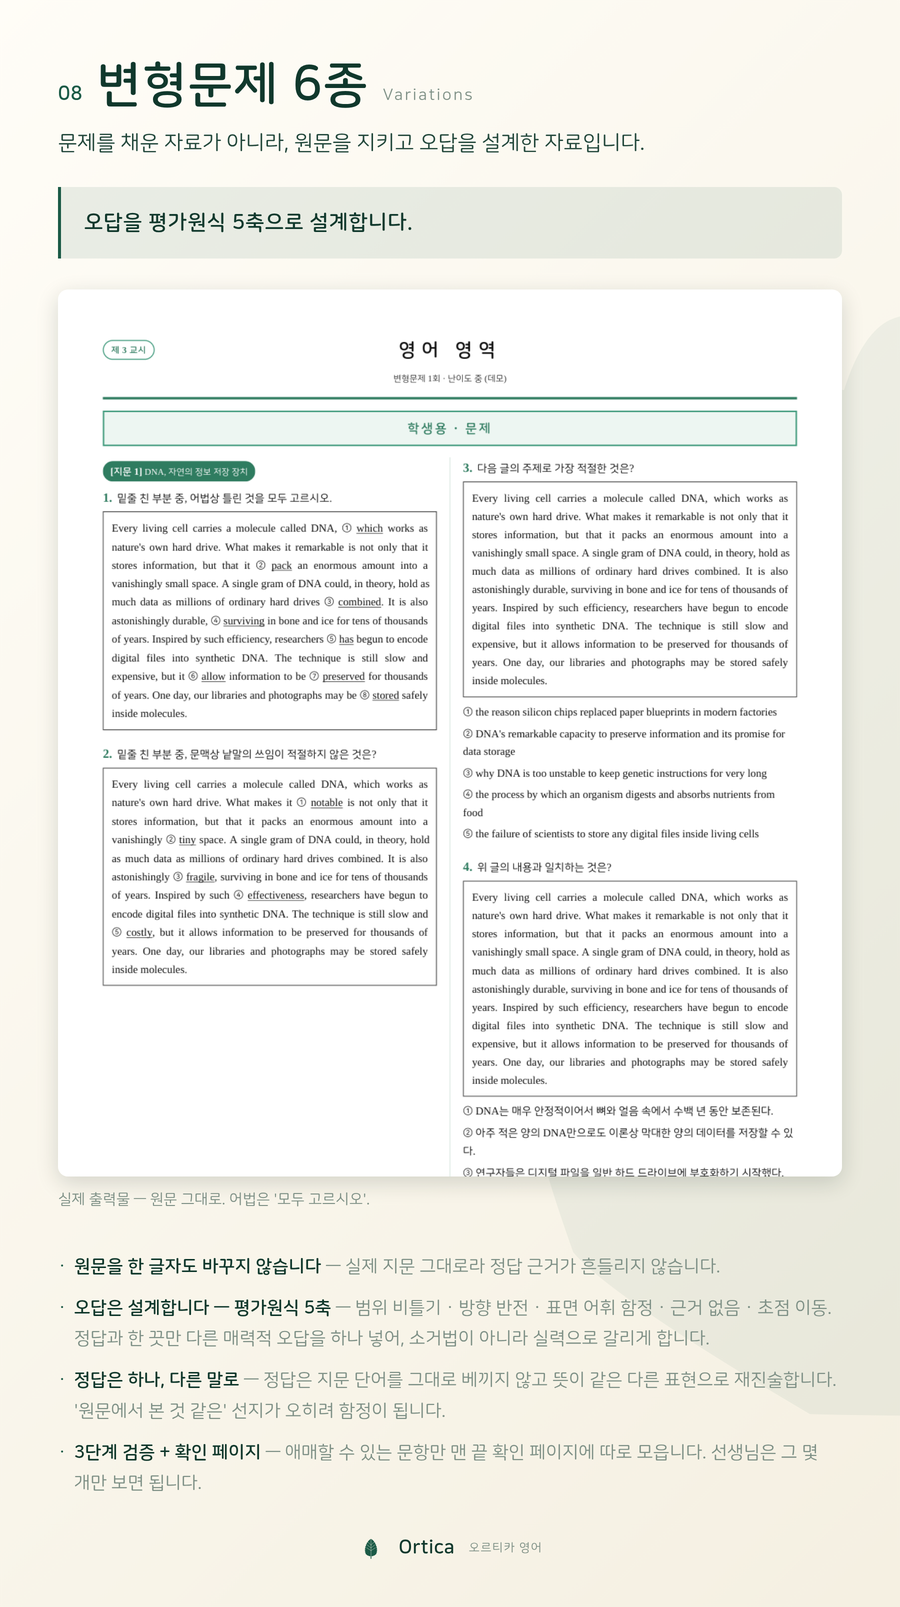
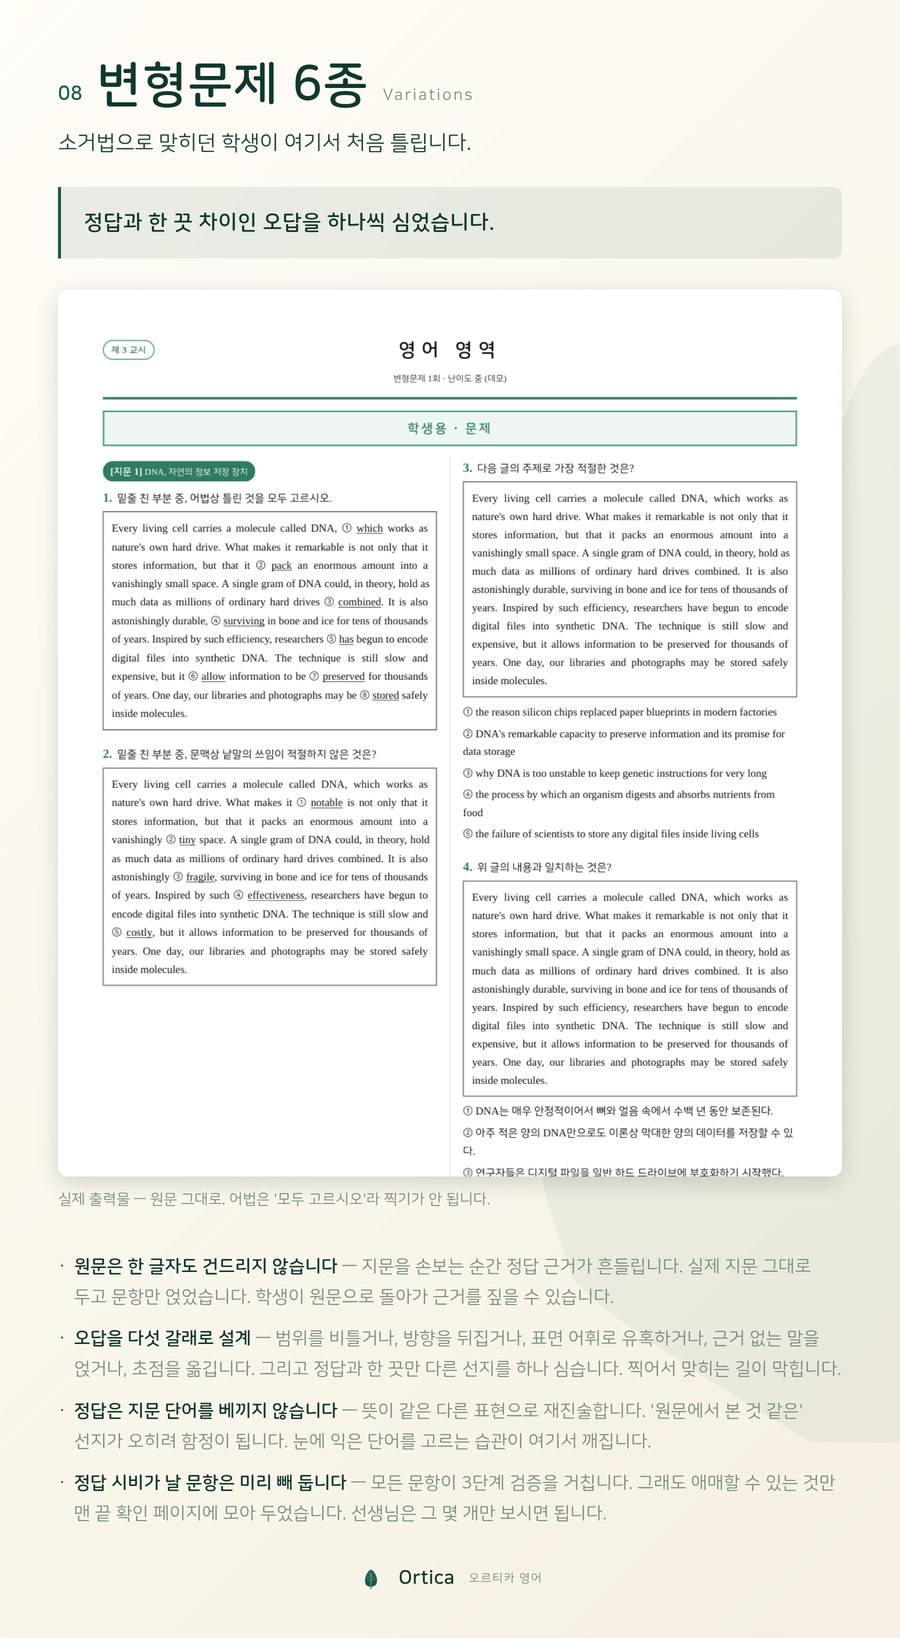
변형문제 문구 다시 씀
고친 이유
- 첫 문장이 읽는 사람의 실수를 지적하며 시작했다("~한 적 있으시죠"). 적은
  선생님이 아니라 오답이 티 나는 자료여야 한다.
- '평가원식 5축'이 앞에 나와 용어부터 읽혔다. 무엇이 좋아지는지가 먼저다.
- 다섯 축을 나열만 했다. 비틀고·뒤집고·유혹하고·얹고·옮긴다로 동사를 붙였다.

바뀐 것
- 한 줄: "소거법으로 맞히던 학생이 여기서 처음 틀립니다." 결과부터 말한다.
- 강조: "정답과 한 끗 차이인 오답을 하나씩 심었습니다."
- 원문 무수정은 '근거가 흔들리지 않는다'에 더해 '학생이 원문으로 돌아가 근거를
  짚을 수 있다'까지 적었다.
- 3단계 검증은 '정답 시비가 날 문항은 미리 빼 둡니다'로 바꿨다. 선생님이 진짜
  겁내는 건 검증 횟수가 아니라 수업 중 정답 시비다.

Claude-Session: https://claude.ai/code/session_015BpsJgtaBR6xs1aCKnE4xw

diff --git a/brand/catalog.py b/brand/catalog.py
@@ -267,34 +267,41 @@ MATERIALS: list[Item] = [
         no="08",
         name="변형문제 6종",
         en="Variations",
-        one_line="문제를 채운 자료가 아니라, 원문을 지키고 오답을 설계한 자료입니다.",
-        edge="오답을 평가원식 5축으로 설계합니다.",
+        one_line="소거법으로 맞히던 학생이 여기서 처음 틀립니다.",
+        edge="정답과 한 끗 차이인 오답을 하나씩 심었습니다.",
         lead=(
-            "급하게 만든 변형문제는 정답이 두 개거나 오답이 티가 나서 학생이 소거법으로 "
-            "다 맞힙니다. 이 자료는 원문을 한 글자도 바꾸지 않고, 오답을 원리로 배치하고, "
-            "모든 문항을 3단계로 검증합니다."
+            "변형문제의 성패는 문항 수가 아니라 오답에서 갈립니다. "
+            "오답이 티가 나면 학생은 지문을 안 읽고도 답을 고릅니다. "
+            "그래서 이 자료는 지문은 그대로 두고, 오답을 설계했습니다."
         ),
         points=[
-            ("원문을 한 글자도 바꾸지 않습니다",
-             "실제 지문 그대로라 정답 근거가 흔들리지 않습니다."),
-            ("오답은 설계합니다 — 평가원식 5축",
-             "범위 비틀기 · 방향 반전 · 표면 어휘 함정 · 근거 없음 · 초점 이동. "
-             "정답과 한 끗만 다른 매력적 오답을 하나 넣어, 소거법이 아니라 실력으로 갈리게 합니다."),
-            ("정답은 하나, 다른 말로",
-             "정답은 지문 단어를 그대로 베끼지 않고 뜻이 같은 다른 표현으로 재진술합니다. "
-             "'원문에서 본 것 같은' 선지가 오히려 함정이 됩니다."),
-            ("3단계 검증 + 확인 페이지",
-             "애매할 수 있는 문항만 맨 끝 확인 페이지에 따로 모읍니다. "
-             "선생님은 그 몇 개만 보면 됩니다."),
-            ("편집 없이 그대로 인쇄",
-             "학생용 · 교사용 · 빠른정답 · 해설까지 완성된 한 부. 오늘 수업에 바로 쓸 수 있습니다."),
+            ("원문은 한 글자도 건드리지 않습니다",
+             "지문을 손보는 순간 정답 근거가 흔들립니다. 실제 지문 그대로 두고 문항만 "
+             "얹었습니다. 학생이 원문으로 돌아가 근거를 짚을 수 있습니다."),
+            ("오답을 다섯 갈래로 설계",
+             "범위를 비틀거나, 방향을 뒤집거나, 표면 어휘로 유혹하거나, 근거 없는 말을 "
+             "얹거나, 초점을 옮깁니다. 그리고 정답과 한 끗만 다른 선지를 하나 심습니다. "
+             "찍어서 맞히는 길이 막힙니다."),
+            ("정답은 지문 단어를 베끼지 않습니다",
+             "뜻이 같은 다른 표현으로 재진술합니다. '원문에서 본 것 같은' 선지가 오히려 "
+             "함정이 됩니다. 눈에 익은 단어를 고르는 습관이 여기서 깨집니다."),
+            ("정답 시비가 날 문항은 미리 빼 둡니다",
+             "모든 문항이 3단계 검증을 거칩니다. 그래도 애매할 수 있는 것만 맨 끝 확인 "
+             "페이지에 모아 두었습니다. 선생님은 그 몇 개만 보시면 됩니다."),
+            ("한 부로 완성, 편집 없이 인쇄",
+             "학생용 · 교사용 · 빠른정답 · 해설까지 들어 있습니다. 오늘 수업에 그대로 "
+             "쓸 수 있습니다."),
         ],
         spec=[("형태", "PDF"), ("구성", "학생용 · 교사용 · 빠른정답 · 해설 + 확인 페이지"),
+              ("검증", "문항 3단계 검증 · 애매 문항 별도 표시"),
               ("배포", "구매 후 즉시 다운로드")],
-        who=["급조한 변형문제에 데어 본 선생님", "소거법으로 맞히던 습관을 깨야 하는 학생"],
+        who=["학생이 소거법으로 다 맞혀 버려 답답했던 선생님",
+             "정답 시비 없는 자료를 그대로 인쇄해 쓰고 싶은 선생님",
+             "눈에 익은 단어를 고르는 습관을 깨야 하는 학생"],
         sample="variation.png",
-        sample_note="실제 출력물 — 원문 그대로. 어법은 '모두 고르시오'.",
-        extra=[("variation-answer.png", "해설 — 선지마다 왜 오답인지를 유형으로 밝힙니다.")],
+        sample_note="실제 출력물 — 원문 그대로. 어법은 '모두 고르시오'라 찍기가 안 됩니다.",
+        extra=[("variation-answer.png",
+                "해설 — 선지마다 왜 오답인지를 갈래로 밝힙니다.")],
     ),
     Item(
         key="mock",

diff --git a/brand/posts/08-variation.md b/brand/posts/08-variation.md
@@ -3,36 +3,36 @@
 ![](detail-variation-1-hero.png)
 <!-- 이미지: brand/assets/detail-variation-1-hero.png -->
 
-급하게 만든 변형문제는 정답이 두 개거나 오답이 티가 나서 학생이 소거법으로 다 맞힙니다. 이 자료는 원문을 한 글자도 바꾸지 않고, 오답을 원리로 배치하고, 모든 문항을 3단계로 검증합니다.
+변형문제의 성패는 문항 수가 아니라 오답에서 갈립니다. 오답이 티가 나면 학생은 지문을 안 읽고도 답을 고릅니다. 그래서 이 자료는 지문은 그대로 두고, 오답을 설계했습니다.
 
 ## 무엇이 들어 있나
 
-**원문을 한 글자도 바꾸지 않습니다**
+**원문은 한 글자도 건드리지 않습니다**
 
-실제 지문 그대로라 정답 근거가 흔들리지 않습니다.
+지문을 손보는 순간 정답 근거가 흔들립니다. 실제 지문 그대로 두고 문항만 얹었습니다. 학생이 원문으로 돌아가 근거를 짚을 수 있습니다.
 
-**오답은 설계합니다 — 평가원식 5축**
+**오답을 다섯 갈래로 설계**
 
-범위 비틀기 · 방향 반전 · 표면 어휘 함정 · 근거 없음 · 초점 이동. 정답과 한 끗만 다른 매력적 오답을 하나 넣어, 소거법이 아니라 실력으로 갈리게 합니다.
+범위를 비틀거나, 방향을 뒤집거나, 표면 어휘로 유혹하거나, 근거 없는 말을 얹거나, 초점을 옮깁니다. 그리고 정답과 한 끗만 다른 선지를 하나 심습니다. 찍어서 맞히는 길이 막힙니다.
 
-**정답은 하나, 다른 말로**
+**정답은 지문 단어를 베끼지 않습니다**
 
-정답은 지문 단어를 그대로 베끼지 않고 뜻이 같은 다른 표현으로 재진술합니다. '원문에서 본 것 같은' 선지가 오히려 함정이 됩니다.
+뜻이 같은 다른 표현으로 재진술합니다. '원문에서 본 것 같은' 선지가 오히려 함정이 됩니다. 눈에 익은 단어를 고르는 습관이 여기서 깨집니다.
 
-**3단계 검증 + 확인 페이지**
+**정답 시비가 날 문항은 미리 빼 둡니다**
 
-애매할 수 있는 문항만 맨 끝 확인 페이지에 따로 모읍니다. 선생님은 그 몇 개만 보면 됩니다.
+모든 문항이 3단계 검증을 거칩니다. 그래도 애매할 수 있는 것만 맨 끝 확인 페이지에 모아 두었습니다. 선생님은 그 몇 개만 보시면 됩니다.
 
-**편집 없이 그대로 인쇄**
+**한 부로 완성, 편집 없이 인쇄**
 
-학생용 · 교사용 · 빠른정답 · 해설까지 완성된 한 부. 오늘 수업에 바로 쓸 수 있습니다.
+학생용 · 교사용 · 빠른정답 · 해설까지 들어 있습니다. 오늘 수업에 그대로 쓸 수 있습니다.
 
 ## 실제 자료 예시
 
 ![](samples/variation.png)
 <!-- 이미지: brand/assets/samples/variation.png -->
 
-실제 출력물 — 원문 그대로. 어법은 '모두 고르시오'.
+실제 출력물 — 원문 그대로. 어법은 '모두 고르시오'라 찍기가 안 됩니다.
 
 <!-- ▼ 직접 채울 곳 (VOICE.md §4) ─────────────────────────────
    · 이 자료를 만들게 된 계기가 된 구체적인 순간 한 문단
@@ -44,11 +44,13 @@
 
 - 형태 — PDF
 - 구성 — 학생용 · 교사용 · 빠른정답 · 해설 + 확인 페이지
+- 검증 — 문항 3단계 검증 · 애매 문항 별도 표시
 - 배포 — 구매 후 즉시 다운로드
 
 ## 이런 분께
 
-- 급조한 변형문제에 데어 본 선생님
-- 소거법으로 맞히던 습관을 깨야 하는 학생
+- 학생이 소거법으로 다 맞혀 버려 답답했던 선생님
+- 정답 시비 없는 자료를 그대로 인쇄해 쓰고 싶은 선생님
+- 눈에 익은 단어를 고르는 습관을 깨야 하는 학생
 
 <!-- 가격과 구매 방법(링크·계좌·폼)을 여기에 넣으세요 -->

diff --git a/brand/posts/00-lineup.md b/brand/posts/00-lineup.md
@@ -61,7 +61,7 @@
 
 **07. 서술형 대비 교재** — 영어 지문 하나로, 학교 서술형·변형문제를 통째로 끝냅니다.
 
-**08. 변형문제 6종** — 문제를 채운 자료가 아니라, 원문을 지키고 오답을 설계한 자료입니다.
+**08. 변형문제 6종** — 소거법으로 맞히던 학생이 여기서 처음 틀립니다.
 
 **09. 동형모의고사** — 시중 문제집의 남의 시험이 아니라, 우리 학교 시험지 그대로.
 
